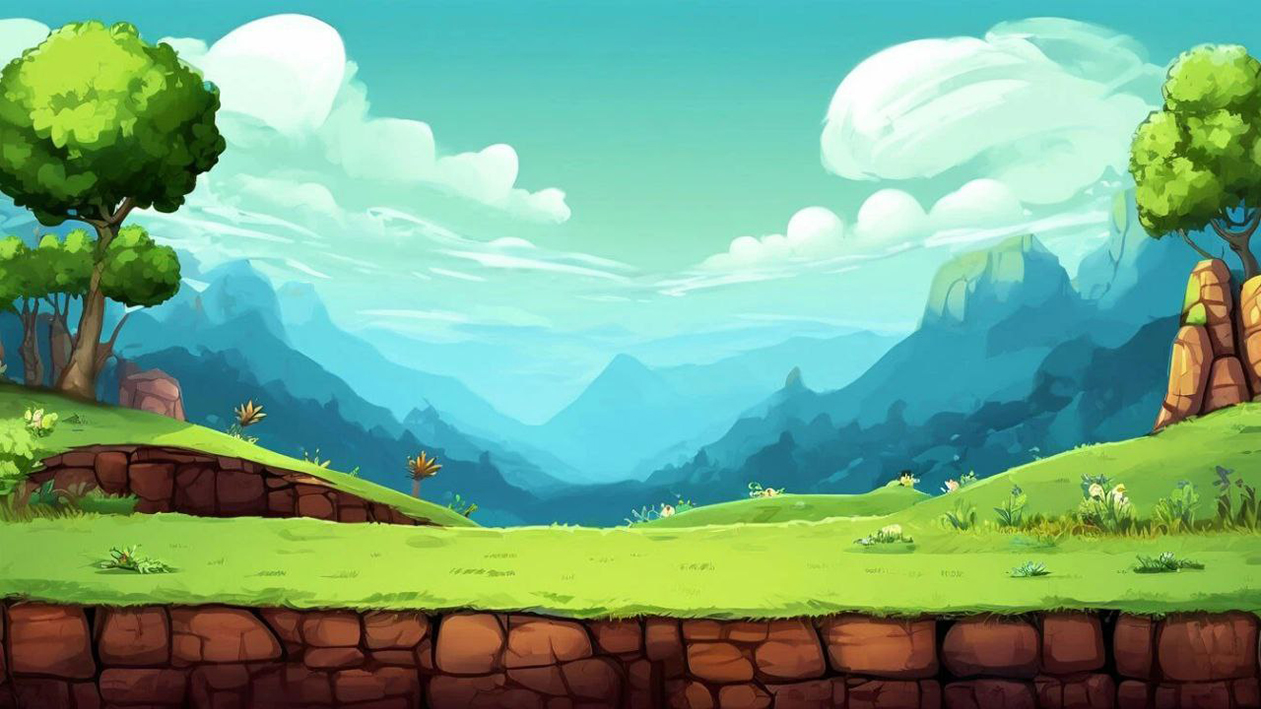
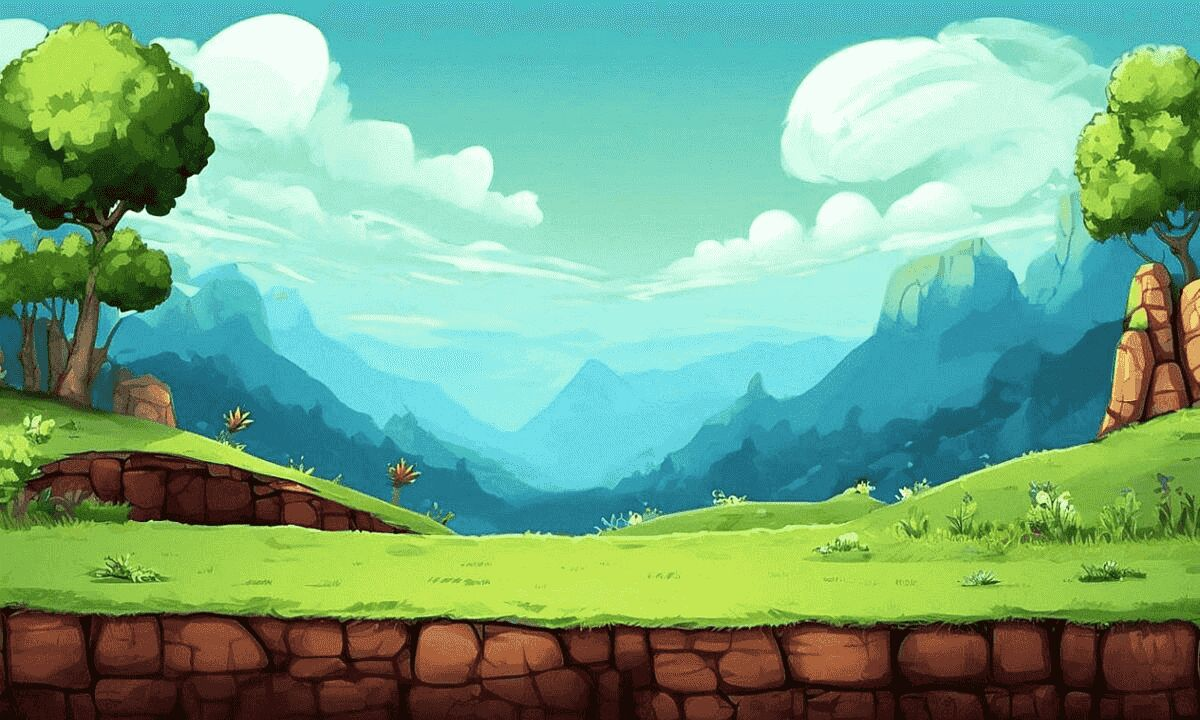
Заменил колобка на вариант Ивана и добавил окно "Конец игры"

diff --git a/game/engine.py b/game/engine.py
@@ -15,7 +15,7 @@ class GameEngine:
     top_platform_y = old_kolobok_y + kolobok_height
     bottom_platform_y = 650
     top_platform_length = 300
-    bottom_platform_length = 1000
+    bottom_platform_length = 1400
     kolobok_running = False
     # Физические параметры
     gravity = 5
@@ -28,7 +28,8 @@ class GameEngine:
     def __init__(self):
         self.clock = pg.time.Clock()
         self.font28, self.font22 = res.load_fonts()
-        self.bg, self.kolobok, self.lisa, self.medved, self.zayac = res.load_images()
+        self.bg = res.load_background()
+        self.kolobok, self.lisa, self.medved, self.zayac = res.load_images()
 
     def run(self, screen):
         res.load_music()
@@ -60,33 +61,48 @@ class GameEngine:
             pg.display.flip()
             self.clock.tick(60)
 
+            if self.kolobok_x > screen.get_width():
+                screen.blit(self.bg[1], (0, 0))
+                screen.blit(self.font28.render('Конец игры', True, pg.Color(0, 0, 0)), (540, 267))
+                pg.display.flip()
+                time.sleep(3)
+
+                return 'next_level'
+
     def update(self):
-        if (self.top_platform_length - self.kolobok_height // 2) <= self.kolobok_x and (
+        if (self.top_platform_length
+            - self.kolobok_height // 2) <= self.kolobok_x and (
                 self.kolobok_y + self.kolobok_height) < self.bottom_platform_y:
             self.falling = True  # Колобок падает
 
         if self.falling:
             self.time_elapsed += 0.2  # Увеличиваем время падения
             # Параболическая траектория: y = v0 * t + 0.5 * g * t^2
-            self.kolobok_y += self.y_speed * self.time_elapsed + 0.5 * self.gravity * self.time_elapsed ** 2
+            self.kolobok_y += (self.y_speed * self.time_elapsed
+                               + 0.5 * self.gravity * self.time_elapsed ** 2)
 
-            if self.kolobok_y >= self.bottom_platform_y - self.kolobok_height // 2:  # Колобок достиг платформы
-                self.kolobok_y = self.bottom_platform_y - self.kolobok_height  # Колобка ставим на платформу
+            if (self.kolobok_y >= self.bottom_platform_y
+                    - self.kolobok_height // 2):  # Колобок достиг платформы
+                self.kolobok_y = (self.bottom_platform_y
+                                  - self.kolobok_height)  # Колобка ставим на платформу
                 self.falling = False  # Падение завершено
                 self.time_elapsed = 0  # Обнуляем время падения
 
-        if self.bottom_platform_length - self.kolobok_height > self.kolobok_x:  # Пока Колобок на платформе
+        if (self.bottom_platform_length
+                - self.kolobok_height > self.kolobok_x):  # Пока Колобок на платформе
             self.kolobok_x += self.x_speed  # Колобок двигается вправо
 
     def render(self, screen):
-        screen.blit(self.bg, (0, 0))
-        t = int(time.time() * 10 % 4)
-        if not self.kolobok_running:
-            screen.blit(self.kolobok[0], (self.kolobok_x, self.kolobok_y - t))
-        else:
-            screen.blit(self.kolobok[2][(self.kolobok_x // 5) % 31], (int(self.kolobok_x), int(self.kolobok_y - t)))
-        screen.blit(self.lisa, (10, 360))
+        screen.blit(self.bg[0], (0, 0))
         screen.blit(self.medved, (730, 460))
+        if not self.kolobok_running:
+            t = int(time.time() * 10 % 4)
+            screen.blit(self.kolobok[2][-4], (self.kolobok_x, self.kolobok_y - t))
+            screen.blit(self.font28.render('Помогите колобку вернуться домой!',
+                                           True, pg.Color(0, 0, 0)), (340, 267))
+            screen.blit(self.font22.render('Управление колобком клавишами W, A, S, D',
+                                           True, pg.Color(0, 0, 0)), (500, 620))
+        else:
+            screen.blit(self.kolobok[2][(self.kolobok_x // 5) % 31], (int(self.kolobok_x), int(self.kolobok_y)))
+        screen.blit(self.lisa, (10, 360))
         screen.blit(self.zayac, (950, 400))
-        screen.blit(self.font28.render('Помогите колобку вернуться домой!', True, pg.Color(0, 0, 0)), (340, 267))
-        screen.blit(self.font22.render('Управление колобком клавишами W, A, S, D', True, pg.Color(0, 0, 0)), (500, 620))

diff --git a/game/resources.py b/game/resources.py
@@ -7,15 +7,22 @@ def load_fonts():
     return font28, font22
 
 
+def load_background():
+    bg = []
+    bg.append(pg.image.load('res/graphics/fon_03.jpg').convert())
+    bg.append(pg.image.load('res/graphics/backfon.jpg').convert())
+    return bg
+
+
 def load_images():
-    bg = pg.image.load('res/graphics/fon_03.jpg').convert()
     kolobok_image_god = pg.image.load('res/graphics/Kolobok_god_mode.png').convert_alpha()
-    kolobok_image = pg.image.load('res/graphics/Kolobok01.png').convert_alpha()
+    kolobok_image = pg.image.load('res/graphics/Kolobok_Ivan.png').convert_alpha()
     kolobok_list = []
-    for i in range(31):
+    for i in range(1,32):
         kolobok_ = pg.transform.rotate(kolobok_image, -i * 11.6129)
         kolobok = pg.transform.scale(kolobok_, (50, 50))  # Масштабирование
         kolobok_list.append(kolobok)
+
     kolobok = [pg.transform.scale(kolobok_image_god, (50, 50)), \
                pg.transform.scale(kolobok_image, (50, 50)),\
                kolobok_list]
@@ -27,7 +34,7 @@ def load_images():
     zayac_image = pg.image.load('res/graphics/zayac01.png').convert_alpha()
     zayac = pg.transform.scale(zayac_image, (282, 360))  # Масштабирование
 
-    return bg, kolobok, lisa, medved, zayac
+    return kolobok, lisa, medved, zayac
 
 
 def load_music():

diff --git a/main.py b/main.py
@@ -1,8 +1,10 @@
 # Точка входа в игру, инициализация и запуск игрового цикла
-
+import time
 import pygame as pg
 import move
 from game.engine import GameEngine  # Основные механики игры
+import game.resources as res       # Загрузка ресурсов
+
 import settings               # Конфигурационные настройки игры
 import game.state_manager      # Управление состояниями игры
 import game.input_handler      # Обработка пользовательского ввода
@@ -15,6 +17,7 @@ import ui.components         # Компоненты интерфейса
 
 if __name__ == '__main__':
     pg.init()
+    font28, font22 = res.load_fonts()
     window_width, window_height = 1200, 720
     screen = pg.display.set_mode((window_width, window_height))
     pg.display.set_caption("Оригинальная игра")
@@ -25,5 +28,6 @@ if __name__ == '__main__':
     # Запуск основного цикла игры
     game = GameEngine()
     game.run(screen)
+
     pg.quit()
 
